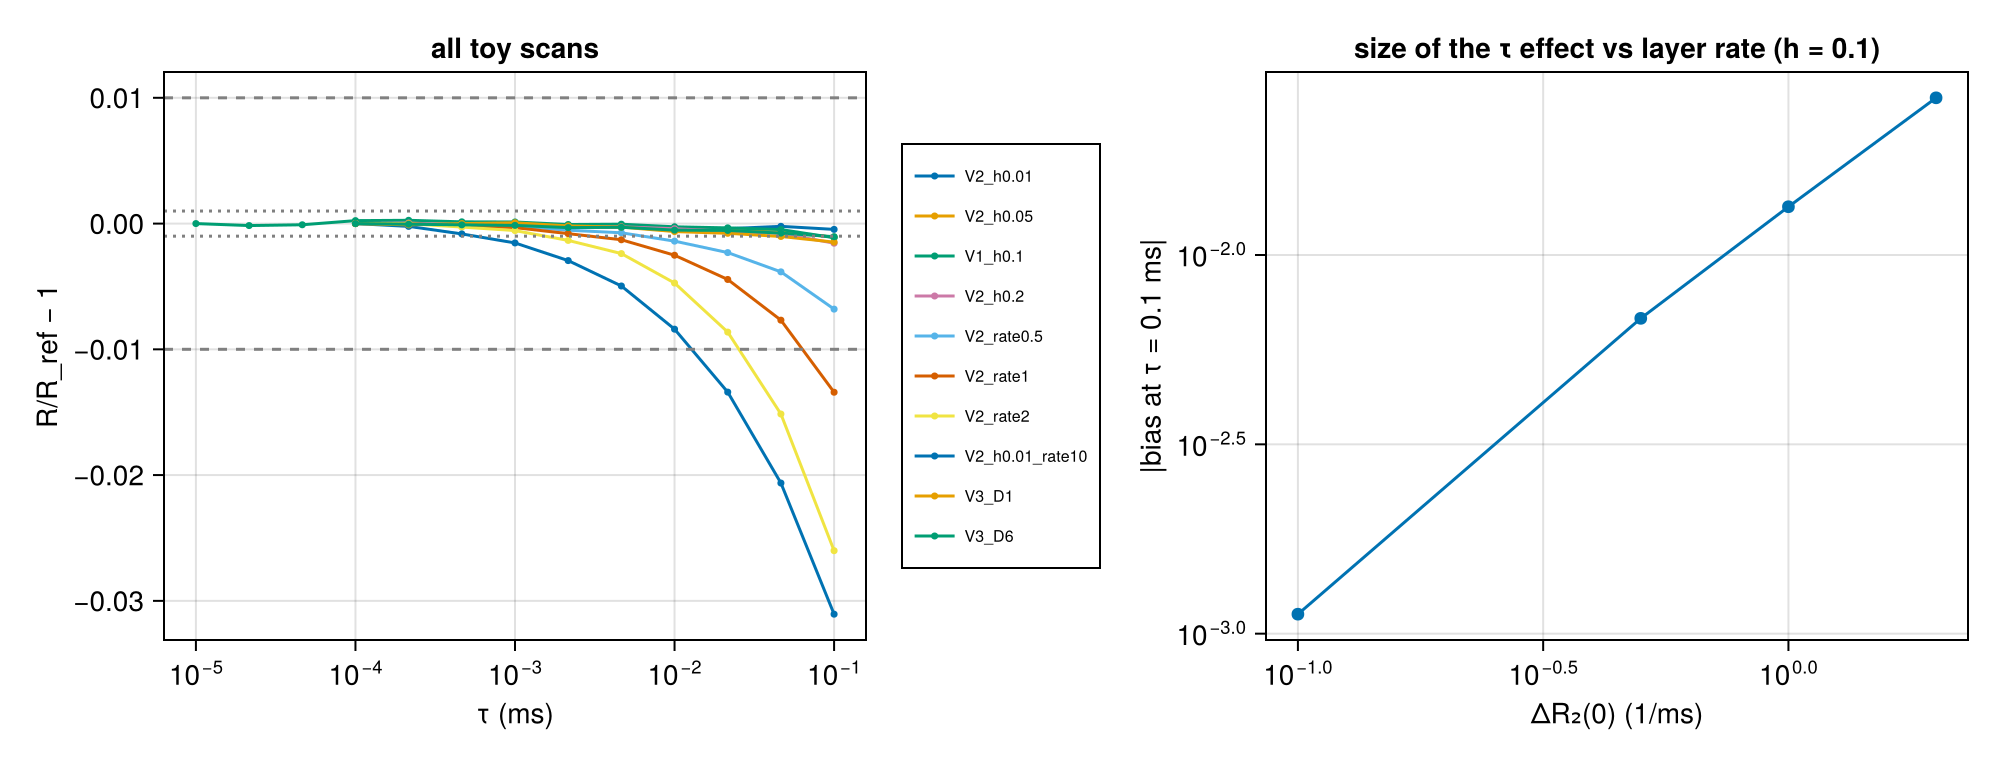
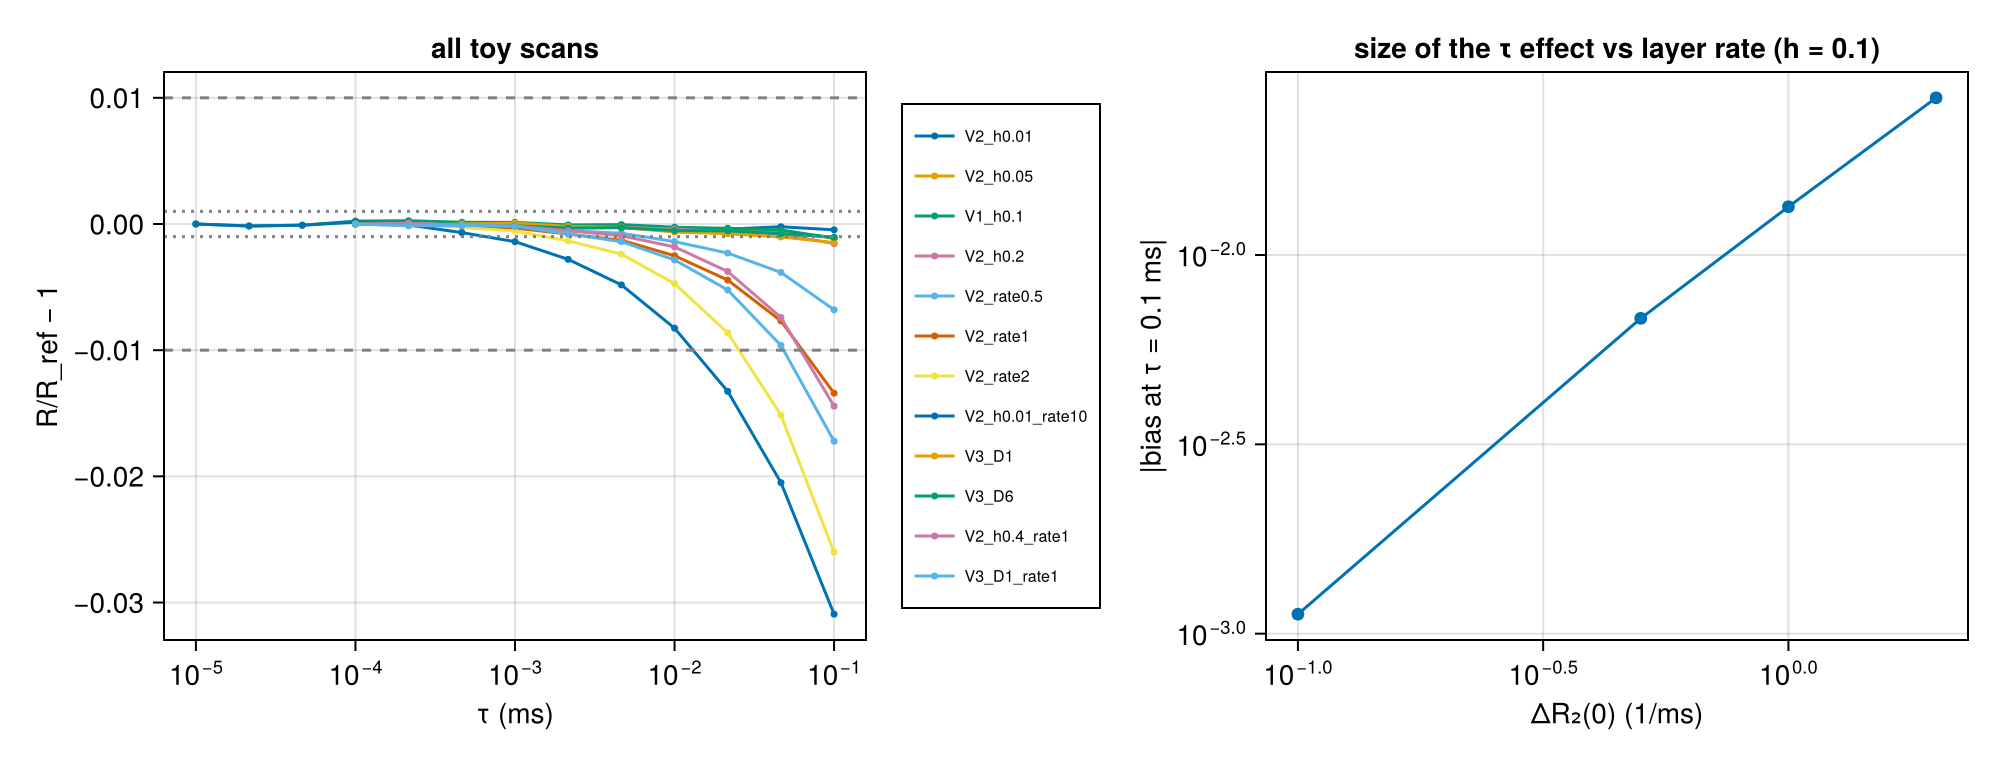
Address final review: noise caveat, converged rate-10 reference, coverage scans

diff --git a/research/project-progress-tracker.md b/research/project-progress-tracker.md
@@ -230,10 +230,10 @@ Converge one control at a time. Use the **same seed** across each sweep, then co
 | ID | ☐ | Test | Method | Pass criterion | Output |
 |---|---|---|---|---|---|
 | P2.6.1 | ☑ | **V1** timestep plateau | Step profile, *h* = 0.1 µm; τ from 10⁻⁵ to 10⁻¹ ms, 3 per decade (B5: 10⁻⁵ ms costs ≈ 2 h per seed at 10⁵ spins × 50 ms, so use 10⁴ spins or a shorter sequence below 10⁻⁴ ms). If no plateau by 10⁻⁵ ms, record that and restrict *h* (see risks) | Plateau found; halving τ changes signal < 1σ; large-τ bias has the sign expected in proposal §3.2 V (too little attenuation) | toy scan + MCMR check: plateau to 0.1 ms at 1 % (τ_conv ≥ 0.1), 0.086 ms at 0.1 %; bias −1.1e-3 at 0.1 ms (less attenuation, as expected); MCMR = toy (\|z\| ≤ 1.3). `phase2_record.md` P2.6.1 |
-| P2.6.2 | ☑ | **V2** *h*² scaling | Repeat at *h* = 0.05, 0.1, 0.2 µm; plot τ_conv vs *h*²/D (proposal Eq. 11) | Line through origin; slope = *c*_h | **FAIL**: τ_conv not ∝ *h*² (falls slightly with *h*). Decision point measured: ΔR₂(0)·τ_conv ≈ 0.05 (1 %), 0.003 (0.1 %); bias ∝ ΔR₂(0); ΔR₂(0) not ρ. `phase2_record.md` P2.6.2 |
-| P2.6.3 | ☑ | **V3** 1/D scaling | λ = 0.1 µm, D = 1, 3, 6 | τ_conv ∝ 1/D | **FAIL**: τ_conv(0.1 %) = 0.043/0.086/0.089 ms for D = 1/3/6 (rises with D). `phase2_record.md` P2.6.3 |
+| P2.6.2 | ☑ | **V2** *h*² scaling | Repeat at *h* = 0.05, 0.1, 0.2 µm; plot τ_conv vs *h*²/D (proposal Eq. 11) | Line through origin; slope = *c*_h | **FAIL**: no *h*² scaling (h trend at ΔR₂(0) = 0.1 within noise). Decision point measured: ΔR₂(0)·τ_conv = 0.048–0.13 (1 %), 0.0028–0.0065 (0.1 %) over *h* = 0.01–0.4, D = 1–3; bias ∝ ΔR₂(0). `phase2_record.md` P2.6.2 |
+| P2.6.3 | ☑ | **V3** 1/D scaling | λ = 0.1 µm, D = 1, 3, 6 | τ_conv ∝ 1/D | **FAIL**: no 1/D scaling (D = 1/3/6 equal within noise at ΔR₂(0) = 0.1); at ΔR₂(0) = 1, D = 1 is ≈ 25 % stricter than D = 3. `phase2_record.md` P2.6.3 |
 | P2.6.4 | ☐ | Profile dependence of τ_conv | Repeat V1 for linear, polynomial, exponential | Record whether *c*_h depends on shape; if so, report per shape or use the most demanding | after the linear plan: rerun `p2_6_scan.jl` with a shape option; check ΔR₂(0)·τ_conv per shape |
-| P2.6.5 | ☑ | Adopt constraint τ ≤ *c*_h·*h*²/D with one-decade margin; add to τ_max selection | Constraint active; report which term binds | **Done, changed form** (user decision 2026-10-06, since V2/V3 failed): τ ≤ c/ΔR₂(0)_max, option `layer`, default c = 0.005 (10× margin on 1 %); binds for ΔR₂(0) > 0.125 at w = 2 µm; verbose message names it. `phase2_record.md` P2.6.5 |
+| P2.6.5 | ☑ | Adopt constraint τ ≤ *c*_h·*h*²/D with one-decade margin; add to τ_max selection | Constraint active; report which term binds | **Done, changed form** (user decision 2026-10-06, since V2/V3 failed): τ ≤ c/ΔR₂(0)_max, option `layer`, default c = 0.005 (10× margin on 1 %); binds for ΔR₂(0) > 0.125 at w = 2 µm, D = 3; verbose message names it. `phase2_record.md` P2.6.5 |
 
 **Decision point:** if V2 does not give λ² scaling, test τ_conv against λ/ρ (the timescale 1/ΔR₂). Re-derive the constraint before adopting it.
 
